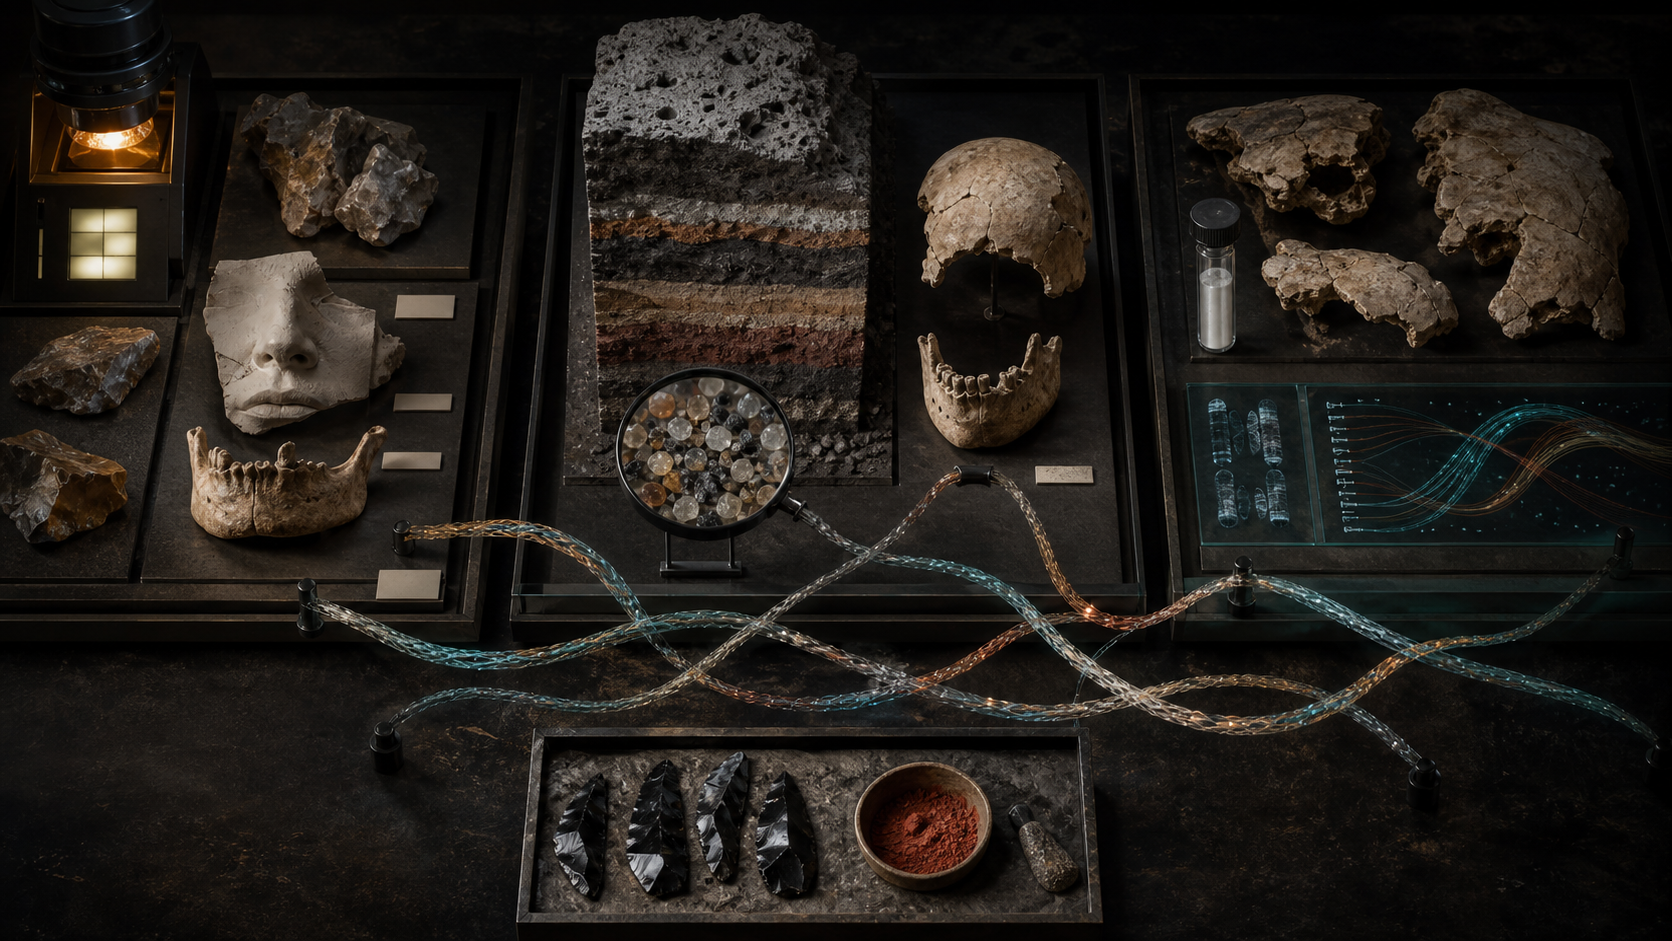
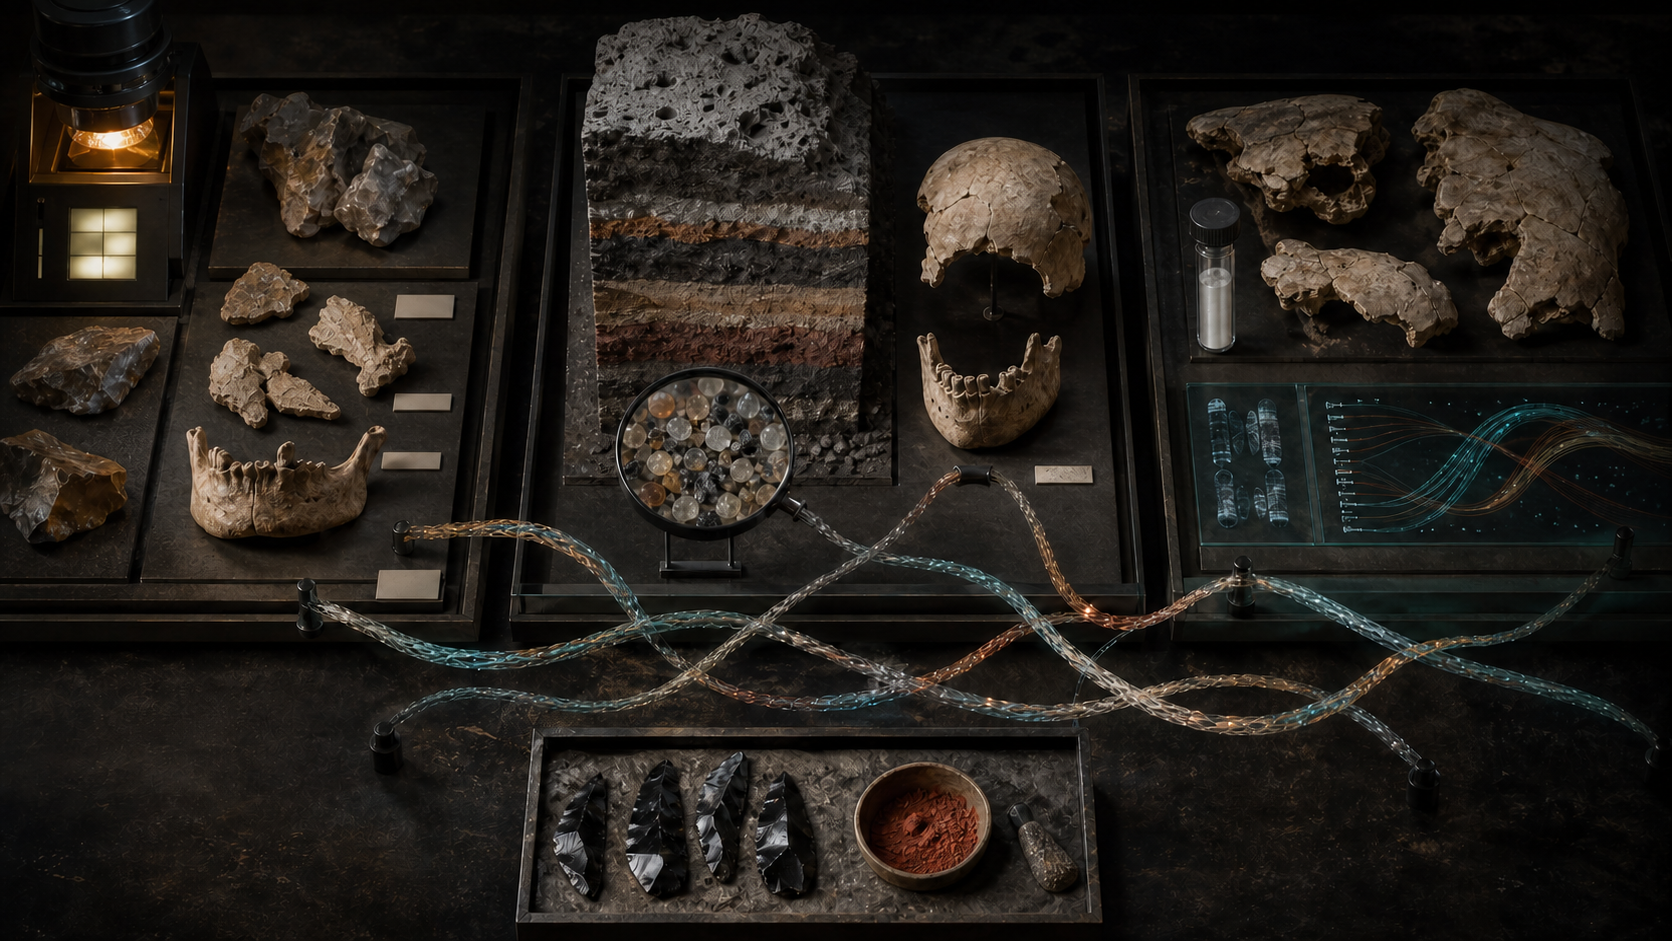
fix: retirar rostro de portada de investigación 042

diff --git a/assets/visuales/README.md b/assets/visuales/README.md
@@ -542,11 +542,21 @@ La imagen final se inspeccionó a resolución original. Es una composición edit
 
 ## Prompt de la portada de la Investigación 042
 
-**Modo:** generación nueva con OpenAI ImageGen. Copia final inspeccionada en `assets/visuales/hero-origen-africano-homo-sapiens.png`. Salida original conservada: `C:\Users\HUAWEI\.codex\generated_images\019ff9f8-176a-7ea1-b727-e17c6df17b82\exec-c8ef76d3-f161-45d8-85d8-6b55873dbfb3.png`.
+**Modo:** generación nueva y una edición correctiva con OpenAI ImageGen. Copia final inspeccionada en `assets/visuales/hero-origen-africano-homo-sapiens.png`. Primera salida: `C:\Users\HUAWEI\.codex\generated_images\019ff9f8-176a-7ea1-b727-e17c6df17b82\exec-c8ef76d3-f161-45d8-85d8-6b55873dbfb3.png`. Edición correctiva: `C:\Users\HUAWEI\.codex\generated_images\019ff9f8-176a-7ea1-b727-e17c6df17b82\exec-fd46e897-7666-40bc-b25a-75cd6ab38235.png`.
 
-> Create a polished 16:9 editorial museum-archive cover image for a Spanish scientific research chapter about the African origin of Homo sapiens: a single region versus a structured ancestral population. No text anywhere. No people, no faces, no skin, no full skulls, no continent silhouette, no geographic map, no modern borders, no flags, no migration arrows, no evolutionary march, no family tree. Build a dark archival tabletop with three clearly separate, non-geographic evidence bays. Left bay: North African heated flint, a partial neutral plaster facial fragment and mandible fragment, a subtle thermoluminescence instrument glow, stratigraphic labels represented only as blank abstract tabs. Center bay: East African volcanic ash layers in a cut sediment block, a partial cranial vault fragment and a small chin-bearing mandible fragment, mineral grains under magnification. Right bay: southern African partial cranial fragments, an ancient-DNA sample tube, restrained chromosome and coalescent-ribbon motifs rendered as scientific glass inlays. In the foreground, several translucent braided threads connect some bays, separate at other points, and reconnect, with visible gaps: a metaphor for weakly structured populations and gene flow, not a literal lineage. Place a small separate archaeology tray with obsidian flakes and red mineral pigment, visibly distinct from fossil trays to avoid implying taxonomic authorship. Color palette: charcoal and deep navy, warm amber mineral light, restrained oxidized rust and teal accents. Museum-grade photorealistic still life, sober scientific editorial design, tactile stone, glass and paper textures, strong hierarchy, generous negative space, subtle depth of field, accurate archaeological ambience. The image must clearly read as a conceptual reconstruction rather than a documentary photograph of one real assemblage; avoid recognizable exact fossil replicas. No labels, numbers, letters, watermarks, logos, decorative glyphs, or pseudo-writing.
+La primera salida, registrada en el commit `5fb07a2`, contenía en la bandeja izquierda una reconstrucción de yeso con nariz y labios. Esa figura contradecía la prohibición de rostros y el límite editorial de no reconstruir personas. La petición incompatible de un fragmento de yeso con rasgos faciales se retiró del prompt vigente; la salida se conserva únicamente como antecedente trazable y no como portada válida.
 
-La imagen final se inspeccionó a resolución original. Las piezas son genéricas y el montaje no reproduce un sitio, una asociación o una escala real. Las tres bandejas no equivalen a regiones con fronteras; los hilos son metáfora de modelos de estructura y flujo, no ADN observado, rutas migratorias ni un número probado de poblaciones. La bandeja lítica permanece separada para no atribuir automáticamente tecnología a un taxón.
+Se aplicó a esa primera salida la siguiente edición correctiva:
+
+> Use case: precise object edit of an existing 16:9 editorial museum-archive cover.
+>
+> Edit only one object in Image 1: in the left evidence bay, replace the pale plaster facial reconstruction fragment—the object with a recognizable nose and lips between the heated flints and the mandible—with a small group of generic, weathered, incomplete fossil bone fragments. Use irregular broken cranial plates and one partial facial-bone edge such as an incomplete orbital or zygomatic-adjacent fragment, visibly separated and fragmentary. These must read as dry fossil bone, never as a cast or reconstruction. There must be no intact face, no recognizable visage, no nose, no lips, no skin, no soft tissue, no fleshed anatomy, and no portrait-like arrangement.
+>
+> Strict invariants: preserve the rest of the image as closely as possible—the exact wide 16:9 composition and crop; camera angle; all tray boundaries and blank tabs; microscope/thermoluminescence instrument; heated flints; the separate mandible; central stratigraphic block, magnifier, cranial-vault fragment and mandible; right-side fragments, sample tube and glass scientific inlay; foreground braided threads and their paths; separate obsidian-and-pigment tray; lighting, dark charcoal/navy palette, amber and teal accents, material textures, focus and negative space. Do not add, remove, move, relight or redesign any other object.
+>
+> No text, letters, numbers, labels, logos, watermark, map, people, faces, skin, complete skulls, full skeletons, silhouettes, evolutionary sequence, arrows, family tree or exact recognizable fossil replica. The final image remains a sober conceptual museum still life, not a documentary assemblage.
+
+La edición final se inspeccionó a resolución original: el elemento objetado quedó sustituido por tres fragmentos óseos genéricos, separados e incompletos, sin nariz, labios, piel ni apariencia de rostro. El resto de la composición conserva las mismas bandejas y clases de evidencia. El montaje no reproduce un sitio, una asociación o una escala real; las tres bandejas no equivalen a regiones con fronteras; los hilos son metáfora de modelos de estructura y flujo, no ADN observado, rutas migratorias ni un número probado de poblaciones. La bandeja lítica permanece separada para no atribuir automáticamente tecnología a un taxón.
 
 ## Reglas de mantenimiento
 
